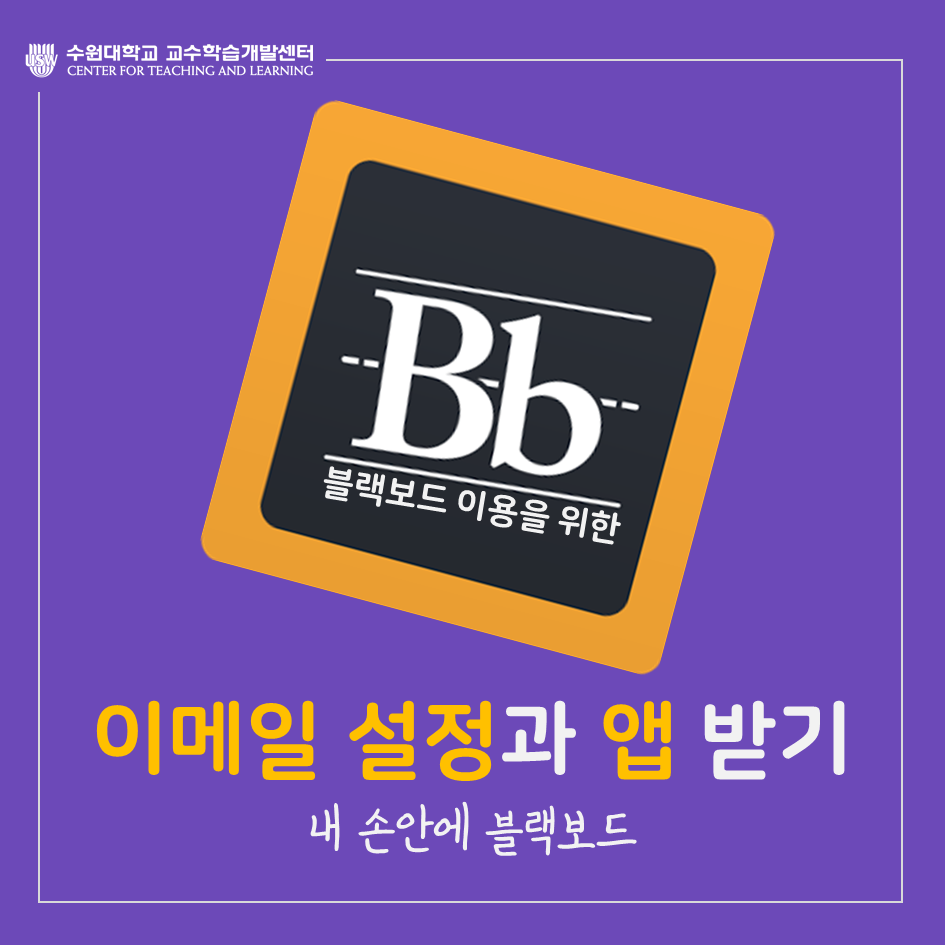
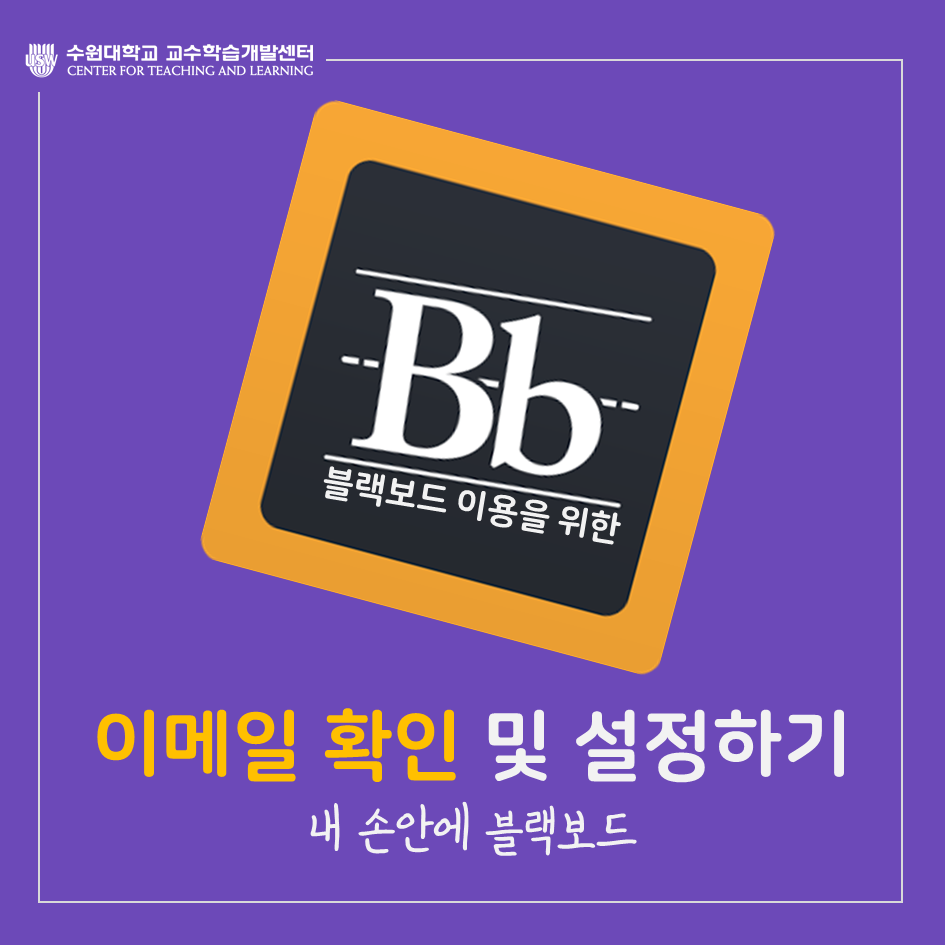
Updates d559-c2b5-c790/part-1-d1ba-c544-bcf4-ae30/c774-ba54-c77c-c124-c815-acfc-c571-bc1b-ae30.md
Auto commit by GitBook Editor

Changed region(s): [[0.0921, 0.7365, 0.8899, 0.8286]]

diff --git a/SUMMARY.md b/SUMMARY.md
@@ -17,7 +17,7 @@
 * [학습자](d559-c2b5-c790/c2dc-c791-d558-ae30-c55e-c11c.md)
   * [시작하기 앞서](d559-c2b5-c790/c2dc-c791-d558-ae30-c55e-c11c.md)
   * [Part 1: 톺아보기](d559-c2b5-c790/part-1-d1ba-c544-bcf4-ae30/c774-ba54-c77c-c124-c815-acfc-c571-bc1b-ae30.md)
-    * [이메일 설정과 앱 받기](d559-c2b5-c790/part-1-d1ba-c544-bcf4-ae30/c774-ba54-c77c-c124-c815-acfc-c571-bc1b-ae30.md)
+    * [이메일 확인 및 설정하기](d559-c2b5-c790/part-1-d1ba-c544-bcf4-ae30/c774-ba54-c77c-c124-c815-acfc-c571-bc1b-ae30.md)
   * [Part 2: 친해지기](d559-c2b5-c790/part-2-ce5c-d574-c9c0-ae30.md)
     * ㅁㅁ
   * 모바일 앱 활용

diff --git a/d559-c2b5-c790/part-1-d1ba-c544-bcf4-ae30/c774-ba54-c77c-c124-c815-acfc-c571-bc1b-ae30.md b/d559-c2b5-c790/part-1-d1ba-c544-bcf4-ae30/c774-ba54-c77c-c124-c815-acfc-c571-bc1b-ae30.md
@@ -1,6 +1,6 @@
 ## Part 1: 톺아보기
 
-### 이메일 설정과 앱 받기
+### 이메일 확인 및 설정하기
 ![](/assets/슬라이드0.PNG)
 
 
